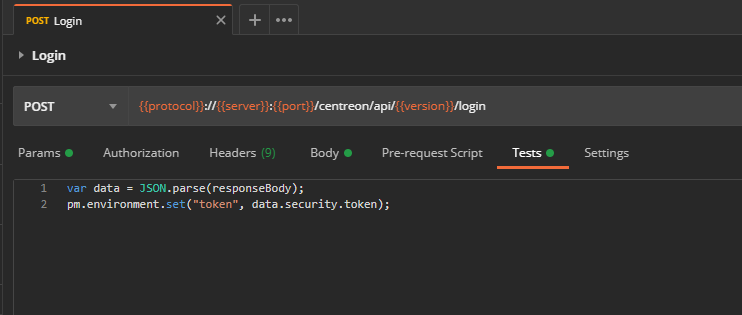
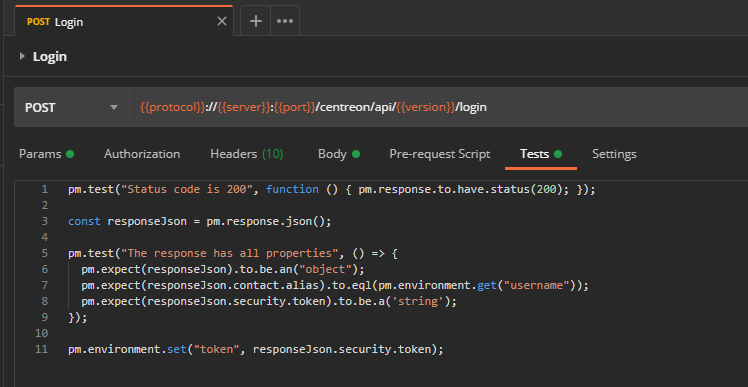
enh(api): change test, add version variable and postman link

diff --git a/fr/api/rest-api-v2.md b/fr/api/rest-api-v2.md
@@ -13,7 +13,8 @@ dédiée](https://docs.centreon.com/api/centreon-web/).
 ## Créer une collection Postman depuis la définition OpenAPI
 
 Afin de manipuler l'API plus efficacement ou seulement pour comprendre comment
-elle fonctionne, il n'y a rien de plus pratique qu'une collection Postman.
+elle fonctionne, il n'y a rien de plus pratique qu'une collection
+[Postman](https://learning.postman.com/docs/getting-started/introduction/).
 
 ### Importer la définition OpenAPI
 
@@ -61,6 +62,19 @@ de la plateforme :
 Cliquer ensuite sur **Add**, et sélectionner l'environnement dans la liste des
 environnements.
 
+> La version de l'API n'est pas défini dans les variables d'environnement. Il
+> s'agit d'avantage d'une variable de la collection. Elle peut être changée
+> directement dans la collection en l'éditant.
+>
+> ![image](../assets/api/postman-collection-edit.png)
+>
+> Dans l'onglet **Variables**, changer la valeur de *version* par une valeur
+> parmi "beta", "latest" or "v2".
+>
+> ![image](../assets/api/postman-collection-variables.png)
+>
+> Les autres variables seront surchargées par les variables d'environnement.
+
 ### Editer la requête de d'authentification
 
 Pour faire en sorte que la requête d'authentification utilise les identifiants
@@ -78,8 +92,17 @@ par les variables d'environnement `{{username}}` et `{{password}}` comme suit :
 Dans l'onglet **Tests**, ajouter le code suivante :
 
 ```javascript
-var data = JSON.parse(responseBody);
-pm.environment.set("token", data.security.token);
+pm.test("Status code is 200", function () { pm.response.to.have.status(200); });
+
+const responseJson = pm.response.json();
+
+pm.test("The response has all properties", () => {
+  pm.expect(responseJson).to.be.an("object");
+  pm.expect(responseJson.contact.alias).to.eql(pm.environment.get("username"));
+  pm.expect(responseJson.security.token).to.be.a('string');
+});
+
+pm.environment.set("token", responseJson.security.token);
 ```
 
 ![image](../assets/api/postman-login-test.png)

diff --git a/en/api/rest-api-v2.md b/en/api/rest-api-v2.md
@@ -13,7 +13,8 @@ page](https://docs.centreon.com/api/centreon-web/).
 ## Create a Postman collection from the OpenAPI definition
 
 In order to manipulate the API more efficiently or just understand how it works,
-there is nothing more handy than a Postman collection.
+there is nothing more handy than a [Postman](https://learning.postman.com/docs/getting-started/introduction/)
+collection.
 
 ### Import the OpenAPI definition
 
@@ -56,6 +57,19 @@ Click on **Add** and set the variables as below with your platform information:
 
 Then click on **Add**, and select it in the environments list.
 
+> The API version is not set in the environment variables. It's more of a
+> collection variable. It can be changed directly in the collection by editing
+> it.
+>
+> ![image](../assets/api/postman-collection-edit.png)
+>
+> In the **Variables** tab, change the *version* value to one of "beta",
+> "latest" or "v2".
+>
+> ![image](../assets/api/postman-collection-variables.png)
+>
+> Other variables will be overload by environment variables.
+
 ### Edit the Login request
 
 To make the *Login* request use the previously defined credentials, and retrieve
@@ -72,8 +86,17 @@ variables `{{username}}` and `{{password}}` as below:
 In the **Tests** tab, add the following code:
 
 ```javascript
-var data = JSON.parse(responseBody);
-pm.environment.set("token", data.security.token);
+pm.test("Status code is 200", function () { pm.response.to.have.status(200); });
+
+const responseJson = pm.response.json();
+
+pm.test("The response has all properties", () => {
+  pm.expect(responseJson).to.be.an("object");
+  pm.expect(responseJson.contact.alias).to.eql(pm.environment.get("username"));
+  pm.expect(responseJson.security.token).to.be.a('string');
+});
+
+pm.environment.set("token", responseJson.security.token);
 ```
 
 ![image](../assets/api/postman-login-test.png)
